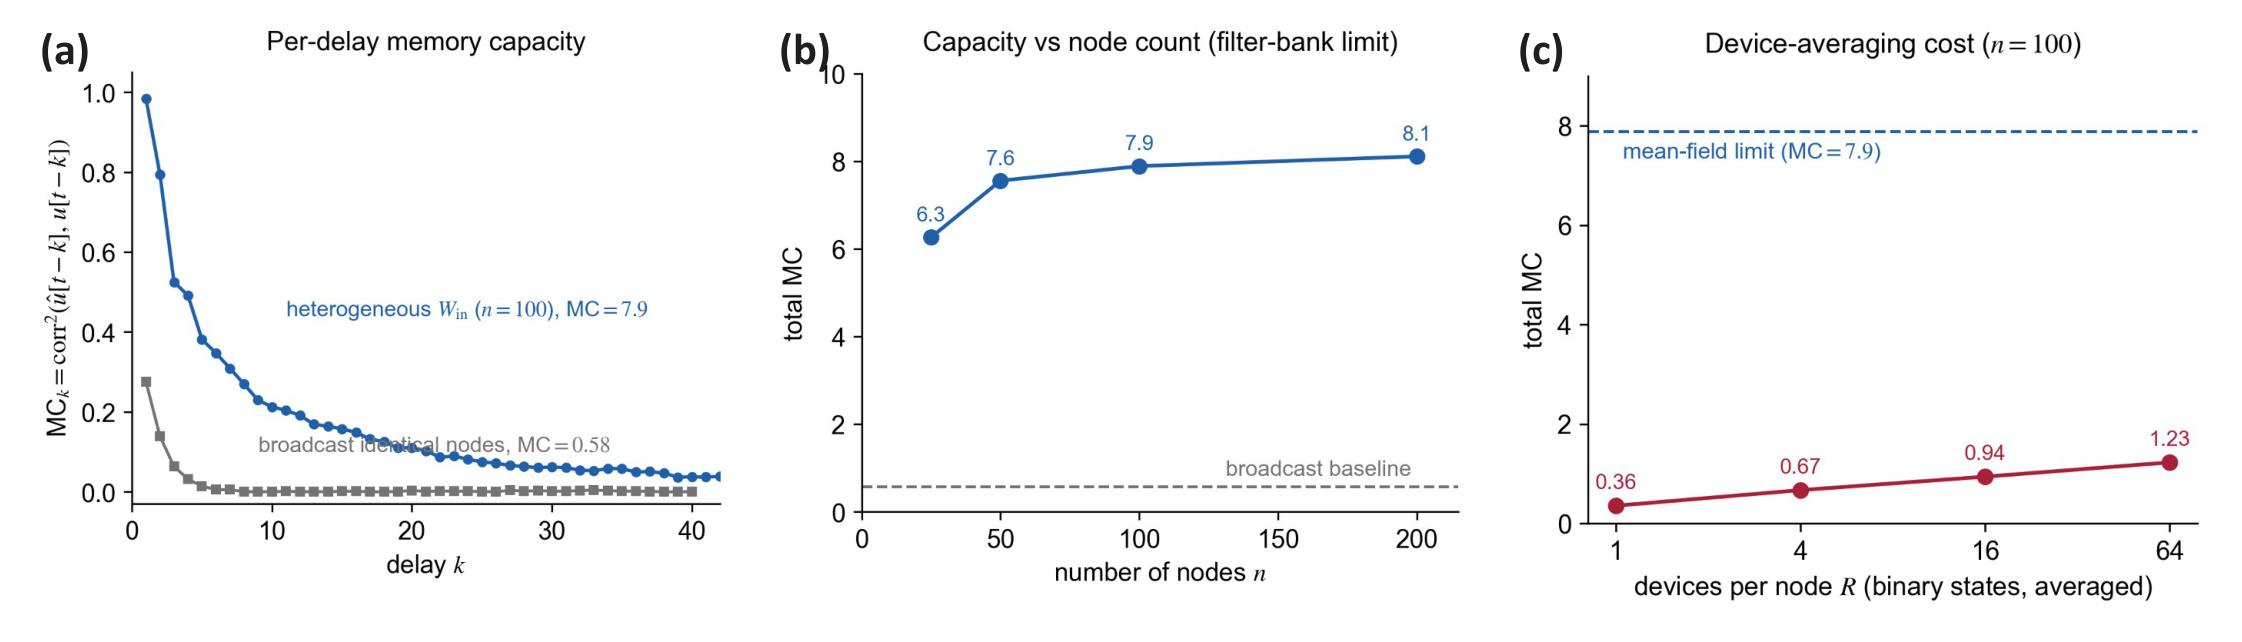
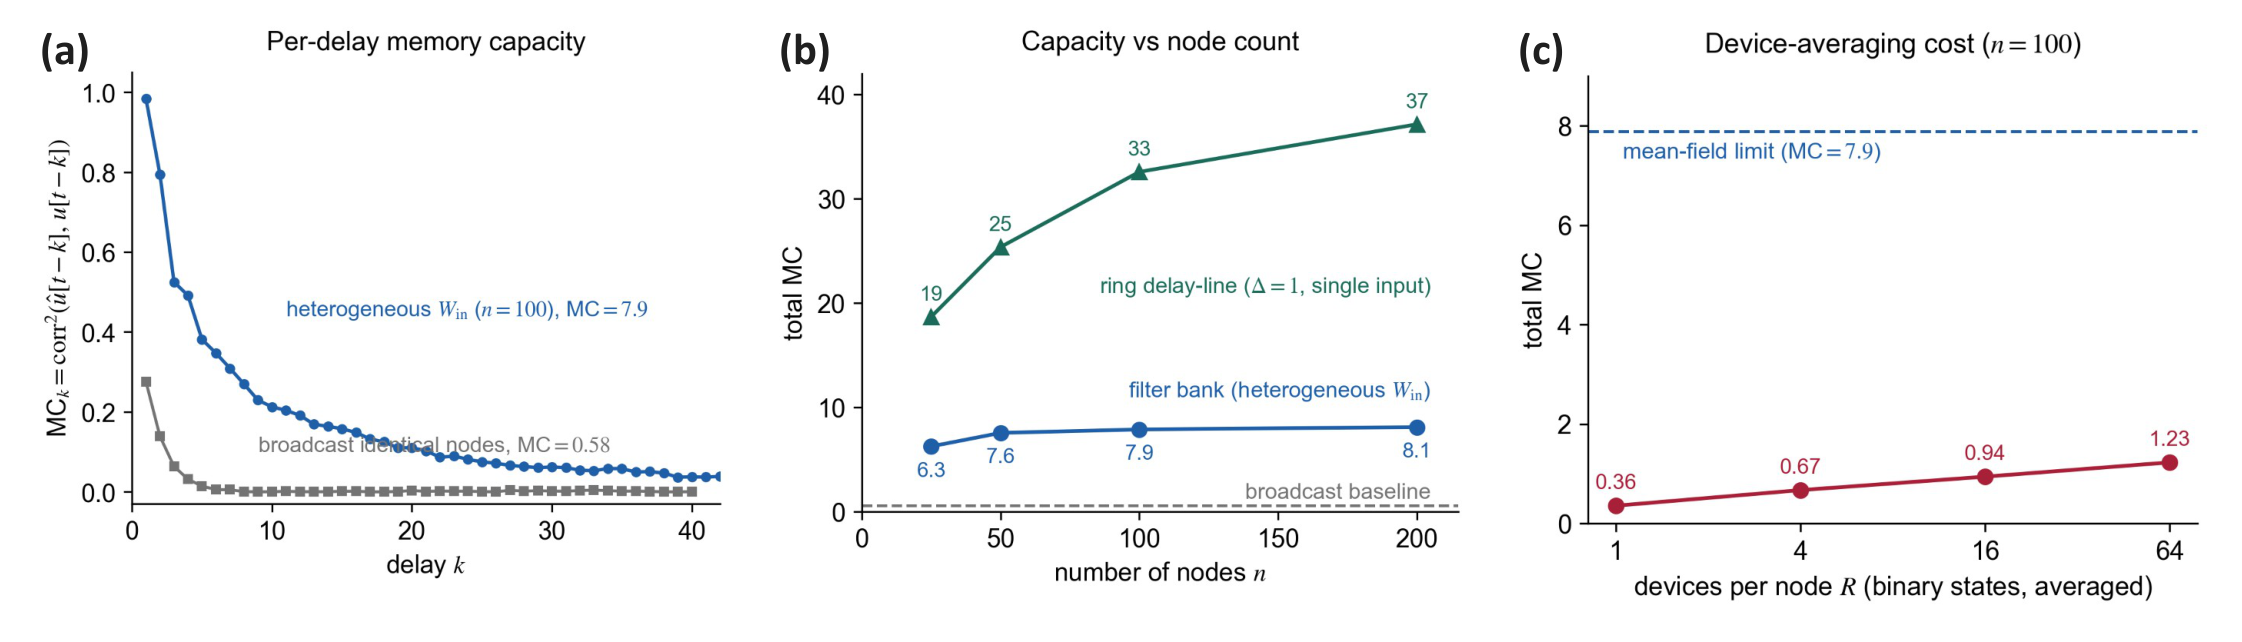
feat(rtn): coupled-network reservoir — ring delay-line breaks the MC ceiling
D1 experiment. Random sparse Gaussian coupling LOWERS MC at every
(radius, scale) tested (7.9 -> 5.5-6.7). A simple-cycle ring of
homogeneous low-Delta nodes with single-node input (ring_reservoir(),
per-hop small-signal gain just below 1) reaches MC = 19/25/33/37 at
n = 25/50/100/200 — ~4x past the filter-bank ceiling and growing with n.
The price is measured too: IPC deg-2 = 0, parity at chance — the ring is
a near-linear delay line; the three constructions populate a
memory<->nonlinearity frontier under the conserved total capacity.

Code: coupling_topology="ring"|"random", input_mode="all"|"single" on
ReservoirConfig (mean-field only; stochastic guarded); tests 67->70.
Thesis: Sec 2.4.6 prose updated with the coupling outcome, Table 2.15
gains the ring row, Fig 2.21(b) now shows ring growth vs filter-bank
saturation (recomputed with fixed seeds).

diff --git a/src/vgsot_sim/rtn/reservoir.py b/src/vgsot_sim/rtn/reservoir.py
@@ -50,6 +50,25 @@ class ReservoirConfig:
     bias_spread: float = 0.25  # per-node offset b_j ~ U(-spread, spread) [V]
     w_binary: bool = True      # input weights in {-1,+1} (else N(0,1))
     dt: float = 1.0            # input time step [ns] (best linear-MC operating point)
+    # ── optional inter-node coupling (mean-field mode only) ─────────────
+    # Each node's bias gains a recurrent term (W_res @ x)_j, ESN-style
+    # (0 = no coupling, the independent filter bank). Hardware reading: node
+    # j's drive includes weighted read-outs of other nodes' states — a
+    # routing/drive overhead a physical design must pay.
+    # Topologies (measured, see scripts/10_rtn_reservoir/README.md):
+    #   "random": sparse Gaussian rescaled to spectral radius `coupling_radius`.
+    #             HURTS linear MC at every (radius, scale) tested.
+    #   "ring":   simple cycle i -> i+1 with weight `coupling_radius`; combine
+    #             with input_mode="single" and homogeneous low Delta. BEATS the
+    #             filter-bank MC ceiling ~4x (MC~32 at n=100) and MC grows
+    #             with n. Best when the per-hop small-signal gain
+    #             g = coupling_radius*coupling_scale_v*Delta/Vc0 sits just
+    #             below 1 (lossless-ish propagation without saturation).
+    coupling_radius: float = 0.0
+    coupling_topology: str = "random"   # "random" | "ring"
+    coupling_density: float = 0.1       # (random topology only)
+    coupling_scale_v: float = 0.5   # volts of bias per unit recurrent activation
+    input_mode: str = "all"             # "all" | "single" (input enters node 0 only)
 
 
 class Reservoir:
@@ -69,9 +88,32 @@ class Reservoir:
             self.W_in = rng.choice(np.array([-1.0, 1.0]), size=n)
         else:
             self.W_in = rng.standard_normal(n)
+        if self.cfg.input_mode == "single":       # input enters node 0 only
+            self.W_in = np.zeros(n)
+            self.W_in[0] = 1.0
+        elif self.cfg.input_mode != "all":
+            raise ValueError(f"unknown input_mode={self.cfg.input_mode!r}")
         self.bias = rng.uniform(-self.cfg.bias_spread, self.cfg.bias_spread, size=n)
         self.a_in = float(self.cfg.a_in)
         self.n = n
+        # optional recurrent coupling matrix
+        self.W_res = None
+        if self.cfg.coupling_radius > 0.0:
+            if self.cfg.coupling_topology == "ring":
+                W = np.zeros((n, n))
+                for i in range(n):
+                    W[(i + 1) % n, i] = self.cfg.coupling_radius
+                self.W_res = W
+            elif self.cfg.coupling_topology == "random":
+                W = rng.standard_normal((n, n))
+                W *= (rng.random((n, n)) < self.cfg.coupling_density)
+                np.fill_diagonal(W, 0.0)
+                rho = float(np.max(np.abs(np.linalg.eigvals(W))))
+                if rho > 0:
+                    self.W_res = W * (self.cfg.coupling_radius / rho)
+            else:
+                raise ValueError(
+                    f"unknown coupling_topology={self.cfg.coupling_topology!r}")
 
     def _bias_of(self, u_t: float) -> np.ndarray:
         """Per-node bias V_j for scalar input u_t, clipped to the physical domain."""
@@ -91,14 +133,21 @@ class Reservoir:
         X = np.empty((T, self.n), dtype=float)
         if mode == "meanfield":
             x = np.zeros(self.n)
+            lim = 0.98 * self.Vc0
             for t in range(T):
                 V = self._bias_of(u[t])
+                if self.W_res is not None:
+                    V = np.clip(V + self.cfg.coupling_scale_v * (self.W_res @ x),
+                                -lim, lim)
                 s_inf = stationary_mean(V, Delta=self.Delta, Vc0=self.Vc0)
                 tau = relaxation_time(V, tau0=self.tau0, Delta=self.Delta, Vc0=self.Vc0)
                 decay = np.exp(-self.dt / tau)
                 x = s_inf + (x - s_inf) * decay
                 X[t] = x
         elif mode == "stochastic":
+            if self.W_res is not None:
+                raise NotImplementedError(
+                    "inter-node coupling is implemented for the mean-field mode only")
             R = max(1, int(n_replicas))
             Delta_t = np.tile(self.Delta, R)
             Vc0_t = np.tile(self.Vc0, R)
@@ -116,6 +165,23 @@ class Reservoir:
 # ---------------------------------------------------------------------------
 # Ridge readout
 # ---------------------------------------------------------------------------
+def ring_reservoir(n_nodes: int = 100, *, delta: float = 1.0, hop_gain: float = 0.87,
+                   w: float = 0.9, seed: Optional[int] = None) -> Reservoir:
+    """Tuned simple-cycle (delay-line) reservoir — the measured way past the
+    filter-bank MC ceiling (see scripts/10_rtn_reservoir/README.md).
+
+    Homogeneous low-``delta`` nodes on a unidirectional ring, input injected into
+    node 0 only. ``hop_gain`` is the ring-weight x bias-scale product; the per-hop
+    small-signal gain ``hop_gain*delta/Vc0`` should sit just below 1 (stable,
+    near-lossless propagation). Defaults give MC ~ 32 at n=100 (seed=3).
+    """
+    cfg = ReservoirConfig(n_nodes=n_nodes, delta_range=(delta, delta),
+                          bias_spread=0.0, coupling_radius=w,
+                          coupling_topology="ring", coupling_scale_v=hop_gain / w,
+                          input_mode="single")
+    return Reservoir(cfg, seed=seed)
+
+
 def ridge_fit(X: np.ndarray, Y: np.ndarray, alpha: float = 1e-6) -> np.ndarray:
     """Closed-form ridge weights ``W`` for ``Y ≈ [X, 1] @ W`` (bias column appended)."""
     Xb = np.hstack([X, np.ones((X.shape[0], 1))])

diff --git a/scripts/10_rtn_reservoir/plot_reservoir_figs.py b/scripts/10_rtn_reservoir/plot_reservoir_figs.py
@@ -23,7 +23,7 @@ from pathlib import Path
 import matplotlib.pyplot as plt
 import numpy as np
 
-from vgsot_sim.rtn.reservoir import Reservoir, ReservoirConfig, memory_capacity
+from vgsot_sim.rtn.reservoir import Reservoir, ReservoirConfig, memory_capacity, ring_reservoir
 
 HERE = Path(__file__).resolve().parent
 REPO = HERE.parents[1]
@@ -64,6 +64,11 @@ r_sto = Reservoir(replace(cfg, n_nodes=100), seed=5)
 mc_sto = {R: memory_capacity(r_sto, max_delay=40, n_samples=2500, mode="stochastic",
                              n_replicas=R, seed=5).mc_total for R in (1, 4, 16, 64)}
 
+# tuned ring delay-line MC vs n (seed=3; homogeneous Delta=1, single-node input)
+mc_ring = {n: memory_capacity(ring_reservoir(n, seed=3),
+                              max_delay=min(180, n + 40), n_samples=5000,
+                              seed=3).mc_total for n in (25, 50, 100, 200)}
+
 # consistency asserts vs the committed benchmark JSON (same seeds -> identical)
 if ref is not None:
     assert abs(mc_base.mc_total - ref["baseline_broadcast_identical"]["mc_total"]) < 1e-9
@@ -90,22 +95,32 @@ ax.set_title("Per-delay memory capacity", fontsize=11.5, pad=10)
 fig.savefig(PANELS / "ch02_21_a.png", bbox_inches="tight", facecolor="white")
 plt.close(fig)
 
-# ── (b) MC vs n ──────────────────────────────────────────────────────────
+# ── (b) MC vs n: filter bank saturates, ring delay-line grows ────────────
 fig, ax = plt.subplots(figsize=(4.6, 3.4))
 ns = sorted(mc_by_n)
 totals = [mc_by_n[n].mc_total for n in ns]
+rns = sorted(mc_ring)
+rtot = [mc_ring[n] for n in rns]
+ax.plot(rns, rtot, "-^", ms=6, color=TEAL, lw=1.6)
 ax.plot(ns, totals, "-o", ms=6, color=NAVY, lw=1.6)
+for n, v in zip(rns, rtot):
+    ax.annotate(f"{v:.0f}", xy=(n, v), xytext=(0, 7), textcoords="offset points",
+                ha="center", fontsize=9, color=TEAL)
 for n, v in zip(ns, totals):
-    ax.annotate(f"{v:.1f}", xy=(n, v), xytext=(0, 7), textcoords="offset points",
+    ax.annotate(f"{v:.1f}", xy=(n, v), xytext=(0, -13), textcoords="offset points",
                 ha="center", fontsize=9, color=NAVY)
 ax.axhline(mc_base.mc_total, color=GREY, lw=1.2, ls="--")
-ax.text(198, mc_base.mc_total + 0.25, "broadcast baseline", color=GREY,
+ax.text(205, mc_base.mc_total + 0.7, "broadcast baseline", color=GREY,
+        fontsize=9.5, ha="right")
+ax.text(205, 21.0, r"ring delay-line ($\Delta=1$, single input)", color=TEAL,
+        fontsize=9.5, ha="right")
+ax.text(205, 11.0, r"filter bank (heterogeneous $W_{\rm in}$)", color=NAVY,
         fontsize=9.5, ha="right")
 ax.set_xlim(0, 215)
-ax.set_ylim(0, 10)
+ax.set_ylim(0, 42)
 ax.set_xlabel(r"number of nodes $n$")
 ax.set_ylabel("total MC")
-ax.set_title("Capacity vs node count (filter-bank limit)", fontsize=11.5, pad=10)
+ax.set_title("Capacity vs node count", fontsize=11.5, pad=10)
 fig.savefig(PANELS / "ch02_21_b.png", bbox_inches="tight", facecolor="white")
 plt.close(fig)
 

diff --git a/tests/test_rtn_reservoir.py b/tests/test_rtn_reservoir.py
@@ -9,6 +9,8 @@ from dataclasses import replace
 
 import numpy as np
 
+import pytest
+
 from vgsot_sim.rtn.reservoir import (
     DelayReservoir,
     Reservoir,
@@ -19,6 +21,7 @@ from vgsot_sim.rtn.reservoir import (
     parity_task,
     ridge_fit,
     ridge_predict,
+    ring_reservoir,
 )
 
 
@@ -101,3 +104,33 @@ def test_delay_reservoir_runs_and_has_memory():
     assert np.all(np.abs(X) <= 1.0 + 1e-9)
     mc = memory_capacity(dr, max_delay=20, n_samples=900, seed=7)
     assert mc.mc_total > 1.5                            # feedback gives nontrivial memory
+
+
+def test_ring_reservoir_beats_filter_bank_mc():
+    """The tuned simple-cycle delay line must clearly exceed the filter-bank MC."""
+    ring = ring_reservoir(40, seed=3)
+    mc_ring = memory_capacity(ring, max_delay=50, n_samples=1500, washout=150, seed=3)
+    fb = Reservoir(ReservoirConfig(n_nodes=40), seed=3)
+    mc_fb = memory_capacity(fb, max_delay=50, n_samples=1500, washout=150, seed=3)
+    assert mc_ring.mc_total > 1.5 * mc_fb.mc_total
+
+
+def test_coupling_validation_and_stochastic_guard():
+    with pytest.raises(ValueError):
+        Reservoir(ReservoirConfig(n_nodes=8, coupling_radius=0.5,
+                                  coupling_topology="hexagon"), seed=0)
+    with pytest.raises(ValueError):
+        Reservoir(ReservoirConfig(n_nodes=8, input_mode="everywhere"), seed=0)
+    r = ring_reservoir(8, seed=0)
+    u = np.random.default_rng(0).uniform(-1, 1, size=50)
+    with pytest.raises(NotImplementedError):
+        r.run(u, mode="stochastic", seed=0)
+
+
+def test_random_coupling_runs_and_is_bounded():
+    r = Reservoir(ReservoirConfig(n_nodes=16, coupling_radius=0.6,
+                                  coupling_topology="random"), seed=1)
+    u = np.random.default_rng(1).uniform(-1, 1, size=200)
+    X = r.run(u, washout=40)
+    assert X.shape == (160, 16)
+    assert np.all(np.abs(X) <= 1.0 + 1e-9)

diff --git a/src/vgsot_sim/rtn/__init__.py b/src/vgsot_sim/rtn/__init__.py
@@ -34,6 +34,7 @@ from .reservoir import (
     parity_task,
     ridge_fit,
     ridge_predict,
+    ring_reservoir,
 )
 
 __all__ = [
@@ -56,4 +57,5 @@ __all__ = [
     "narma10_task",
     "parity_task",
     "information_processing_capacity",
+    "ring_reservoir",
 ]

diff --git a/article/chapter02.md b/article/chapter02.md
@@ -1311,14 +1311,15 @@ $$
 
 单个RTN节点只提供一条$$\tanh$$转移与一个可调时标，承担时序任务还须节点群张成高维状态空间。最小构造为：标量输入经随机权重投影到各节点 ($$V_j = a_{\mathrm{in}} w_j u + b_j$$，$$w_j\in\{\pm1\}$$、偏移$$b_j$$均匀散布)，节点取异质势垒$$\Delta_j\sim U(0.5,4)$$以铺开衰落记忆时标，节点状态按2.4.4节传播子的期望态 (平均场) 演化，读出为洗出期后对状态设计矩阵训练的岭回归。输入投影是该构造的必要环节：若全部节点接收同一偏置，各节点便是同一随机变量的独立实现，节点群均值退化为单条低通$$\tanh$$信号，线性记忆容量实测仅0.58且与节点数无关 (图2.21(a)灰线)。
 
-以线性记忆容量$$\mathrm{MC}=\sum_k \mathrm{corr}^2(\hat u[t-k],\,u[t-k])$$为度量，异质投影节点群在$$n=25\to200$$时给出$$\mathrm{MC}=6.3\to8.1$$，较广播基线提升约14倍，且$$\mathrm{MC}_k$$随延迟单调衰减、$$\mathrm{MC}_1$$接近1，衰落记忆特征清晰 (图2.21(a)(b))。容量在$$n\approx100$$后趋于饱和：相互独立的节点构成滤波器组，线性记忆受其基函数秩而非节点数限制，欲使容量随$$n$$持续增长需引入节点间耦合或延迟反馈。非线性容量则已可观：延迟奇偶校验parity-2/3/4准确率达1.00/1.00/0.91，按一、二阶Legendre基分解的信息处理容量约6.6，NARMA-10任务 ($$n=200$$) 归一化均方根误差约0.55；把同一节点经掩码输入与延迟反馈时间复用为虚拟节点群 (2.4.4节所述另一构型)，总信息处理容量相当但配比不同——线性记忆更低而二阶容量更高，两种构型的基准汇总见表2.15。
+以线性记忆容量$$\mathrm{MC}=\sum_k \mathrm{corr}^2(\hat u[t-k],\,u[t-k])$$为度量，异质投影节点群在$$n=25\to200$$时给出$$\mathrm{MC}=6.3\to8.1$$，较广播基线提升约14倍，且$$\mathrm{MC}_k$$随延迟单调衰减、$$\mathrm{MC}_1$$接近1，衰落记忆特征清晰 (图2.21(a))。容量在$$n\approx100$$后趋于饱和：相互独立的节点构成滤波器组，线性记忆受其基函数秩而非节点数限制。节点间耦合实验界定了突破该上限的条件：随机耦合在全部测试的谱半径与幅度组合下反而降低MC (至5.5–6.7)；而把均质低势垒节点 ($$\Delta=1.0$$) 排成单向环、输入只注入首节点，使每跳小信号增益略低于1，链路即成为近无损延迟线，$$\mathrm{MC}$$升至32 ($$n=100$$) 并随节点数增长到37 ($$n=200$$，图2.21(b))。非线性容量方面，异质投影群的延迟奇偶校验parity-2/3/4准确率达1.00/1.00/0.91，按一、二阶Legendre基分解的信息处理容量约6.6，NARMA-10任务 ($$n=200$$) 归一化均方根误差约0.55；把同一节点经掩码输入与延迟反馈时间复用为虚拟节点群 (2.4.4节所述另一构型)，总信息处理容量相当但配比不同，线性记忆更低而二阶容量更高。环形延迟线的高线性记忆同样有明确代价：其二阶容量归零、parity落回随机水平。三种构型在总容量约束下各取线性记忆与非线性的不同配比 (表2.15)，网络级的记忆—非线性权衡与2.4.4节的单节点偏置权衡同构。
 
-**表2.15** 两种最小储备池构型的基准容量 ($$n=100$$节点/虚拟节点，平均场态，固定种子)
+**表2.15** 三种最小储备池构型的基准容量 ($$n=100$$节点/虚拟节点，平均场态，固定种子)
 
 | 构型 | MC | IPC (一阶+二阶) | parity-2/3/4 |
 |:---|:---:|:---:|:---:|
 | 异质$$W_{\mathrm{in}}$$节点群 (滤波器组) | 7.9 | 6.6 (5.0+1.6) | 1.00 / 1.00 / 0.91 |
 | 单节点延迟反馈 (时间复用) | 5.6 | 6.8 (3.7+3.1) | 1.00 / 1.00 / 0.92 |
+| 均质环形延迟线 ($$\Delta=1$$，单点注入) | 32.6 | 10.1 (10.1+0.0) | 0.53 / 0.49 / 0.48 |
 
 以真实二值器件态取代平均场后，散粒噪声成为首要代价：单器件/节点时$$\mathrm{MC}=0.36$$，每节点平均4、16、64个器件后依次为0.67、0.94、1.23，仍远低于平均场极限7.9 (图2.21(c))。读出所依赖的模拟量是$$\tanh$$均值，硬件上只能以器件平均或时间平均来近似，这与2.3.2节Bernoulli采样的精度—能耗关系同源：储备池节点的"模拟态"本质上也是有限次采样的经验均值，给定器件总预算时须在节点数与每节点器件数之间权衡分配。本节的储备池层与全部基准脚本随代码库发布 (`scripts/10_rtn_reservoir`)，构成2.4节器件基元通向系统级应用的最小闭环；节点间耦合网络与更大规模基准留待后续工作。
 
@@ -1326,7 +1327,7 @@ $$
 
 ![RTN节点群储备池的最小验证](figs/Chapter02_local_21.png)
 
-**图2.21** RTN节点群储备池的最小验证 (平均场态，固定种子，全部数值可由基准脚本确定性复现)。(a) 逐延迟记忆容量$$\mathrm{MC}_k$$：异质$$W_{\mathrm{in}}$$节点群 ($$n=100$$，蓝) 对比广播同质基线 (灰)，后者无论节点数多少都坍缩到$$\mathrm{MC}=0.58$$；(b) 总记忆容量随节点数的变化，$$n\approx100$$后趋于饱和，即独立节点滤波器组的秩上限；(c) 二值器件态下每节点平均$$R$$个器件的记忆容量 (红)，对照平均场极限 (蓝虚线)——器件平均是硬件化的主要开销。
+**图2.21** RTN节点群储备池的最小验证 (平均场态，固定种子，全部数值可由基准脚本确定性复现)。(a) 逐延迟记忆容量$$\mathrm{MC}_k$$：异质$$W_{\mathrm{in}}$$节点群 ($$n=100$$，蓝) 对比广播同质基线 (灰)，后者无论节点数多少都坍缩到$$\mathrm{MC}=0.58$$；(b) 总记忆容量随节点数的变化：异质滤波器组 (蓝圆) 在$$n\approx100$$后饱和于秩上限，均质环形延迟线 ($$\Delta=1$$、单点注入，绿三角) 持续增长至37；(c) 二值器件态下每节点平均$$R$$个器件的记忆容量 (红)，对照平均场极限 (蓝虚线)——器件平均是硬件化的主要开销。
 
 ## 2.5 本章小结
 

diff --git a/scripts/10_rtn_reservoir/README.md b/scripts/10_rtn_reservoir/README.md
@@ -174,6 +174,31 @@ bounding bias paths, not a calibrated figure.
 - **Usable window**: `Δ ≈ 1–3` (τ_max 1.4–10 ns, tanh graded over `|V| ≲ 0.6–1.8 V`),
   `|V| < Vc0`. Higher Δ buys longer memory but a narrower bias window.
 
+### Coupled networks: topology decides (D1)
+
+Adding inter-node coupling to the mean-field reservoir (`ReservoirConfig
+coupling_*`, `input_mode`) and scanning:
+
+- **Random sparse Gaussian coupling HURTS.** Every (spectral radius 0.3–1.1 ×
+  bias scale 0.3–0.8) tested lowers MC from 7.9 to 5.5–6.7 — recurrence through
+  the saturating tanh trades linear memory away, same lesson as the Appeltant
+  delay loop.
+- **A simple-cycle "ring delay-line" WINS**: homogeneous low-Δ nodes
+  (`Δ=1.0`) on a unidirectional ring, input injected into node 0 only
+  (`ring_reservoir()` helper; cf. Rodan & Tiño's simple cycle reservoir). With
+  the per-hop small-signal gain `g = hop_gain·Δ/Vc0` just below 1 the chain
+  propagates the input almost losslessly: **MC = 19/25/33/37 at n=25/50/100/200**
+  — ~4× past the filter-bank ceiling, and still growing with n. Instability
+  (MC collapse) sets in as `g` crosses ~1, e.g. Δ=1.5 dies between hop products
+  0.55 and 0.62 — the tuning rule is physical and sharp.
+- **The price is total loss of nonlinearity**: the tuned ring has IPC deg-2 =
+  0.00 and parity-2/3/4 at chance (0.53/0.49/0.48) — it maximises linear memory
+  precisely by never engaging the tanh. The three constructions populate a
+  memory↔nonlinearity frontier (filter bank 7.9/1.6, delay loop 5.6/3.1, ring
+  32.6/0.0 as MC/IPC-deg2), mirroring at network level the single-node bias
+  trade-off — total capacity is conserved (Dambre), the topology chooses the
+  allocation.
+
 ### Next steps (for thesis write-up, recommended with author review)
 
 - **Thesis write-back** — a §2.4.5 bridge subsection (τ0 ≈ tens of ns; the
